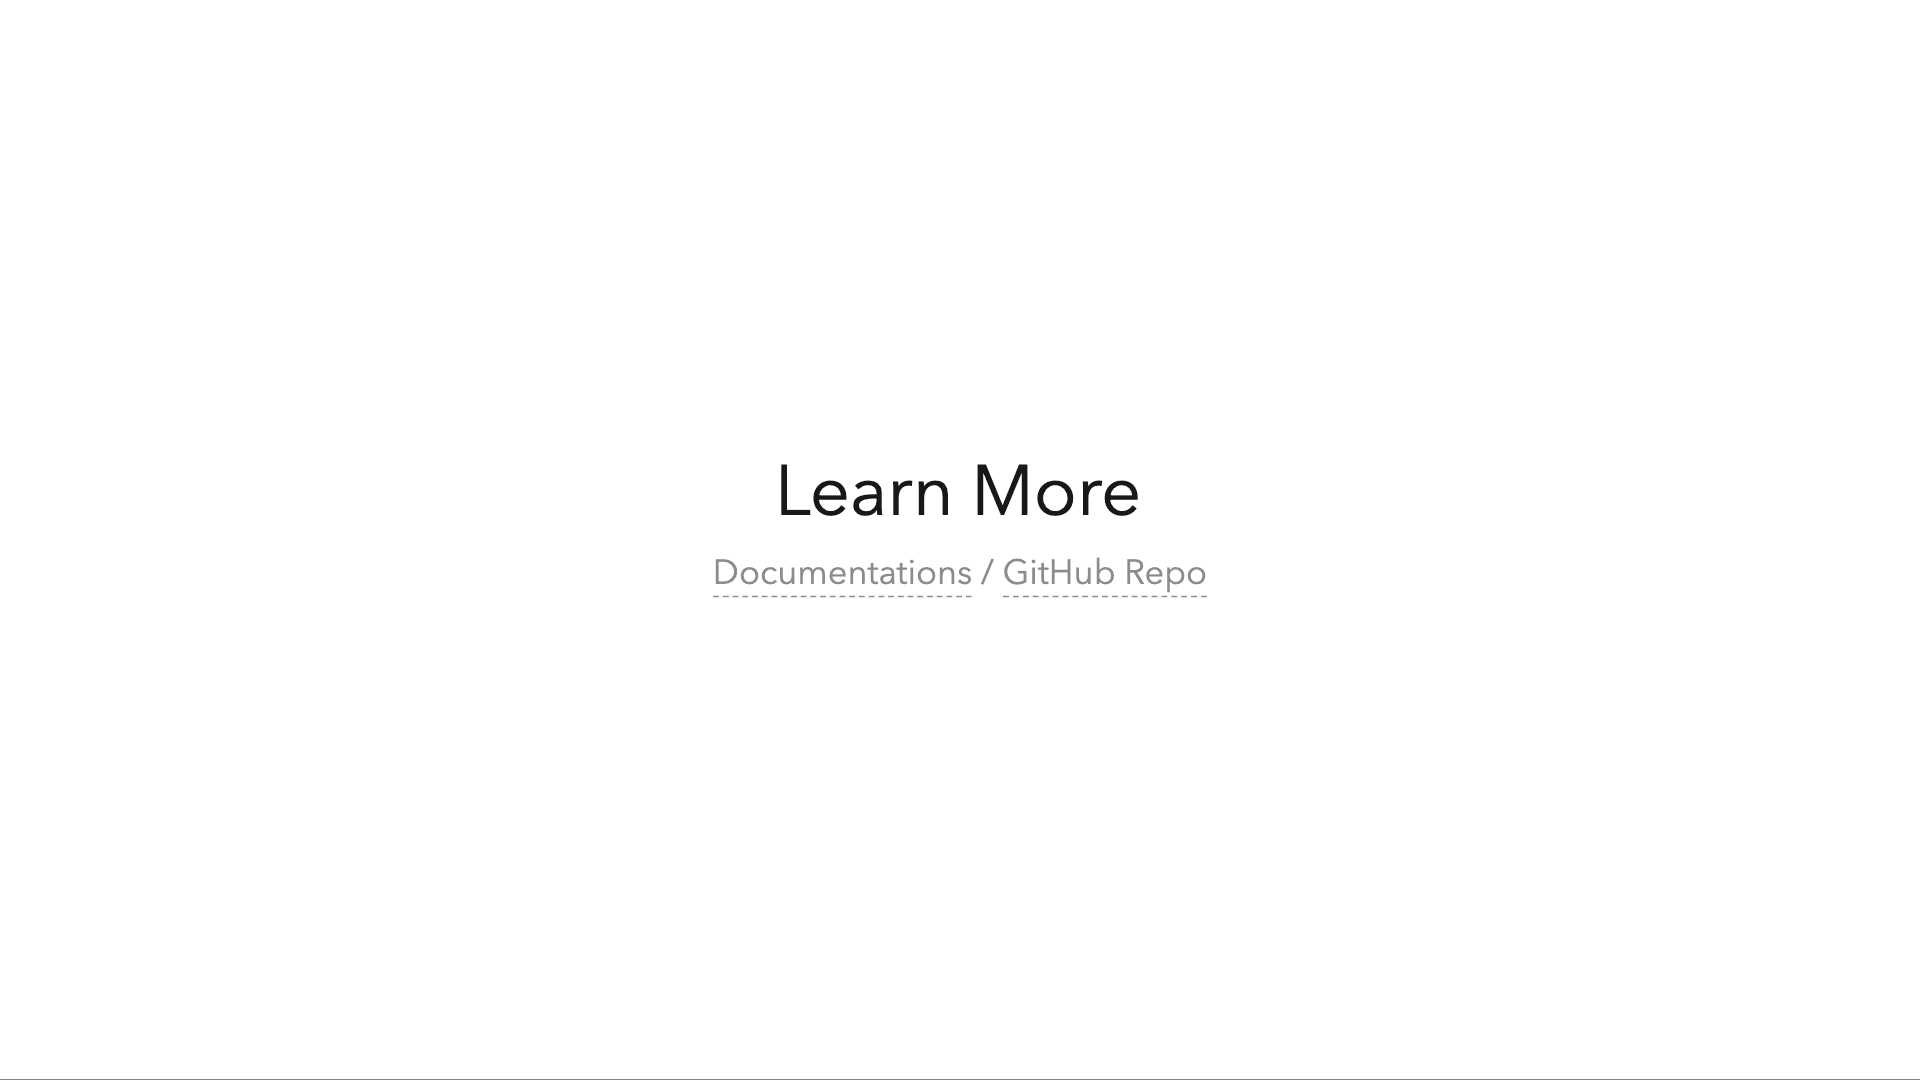
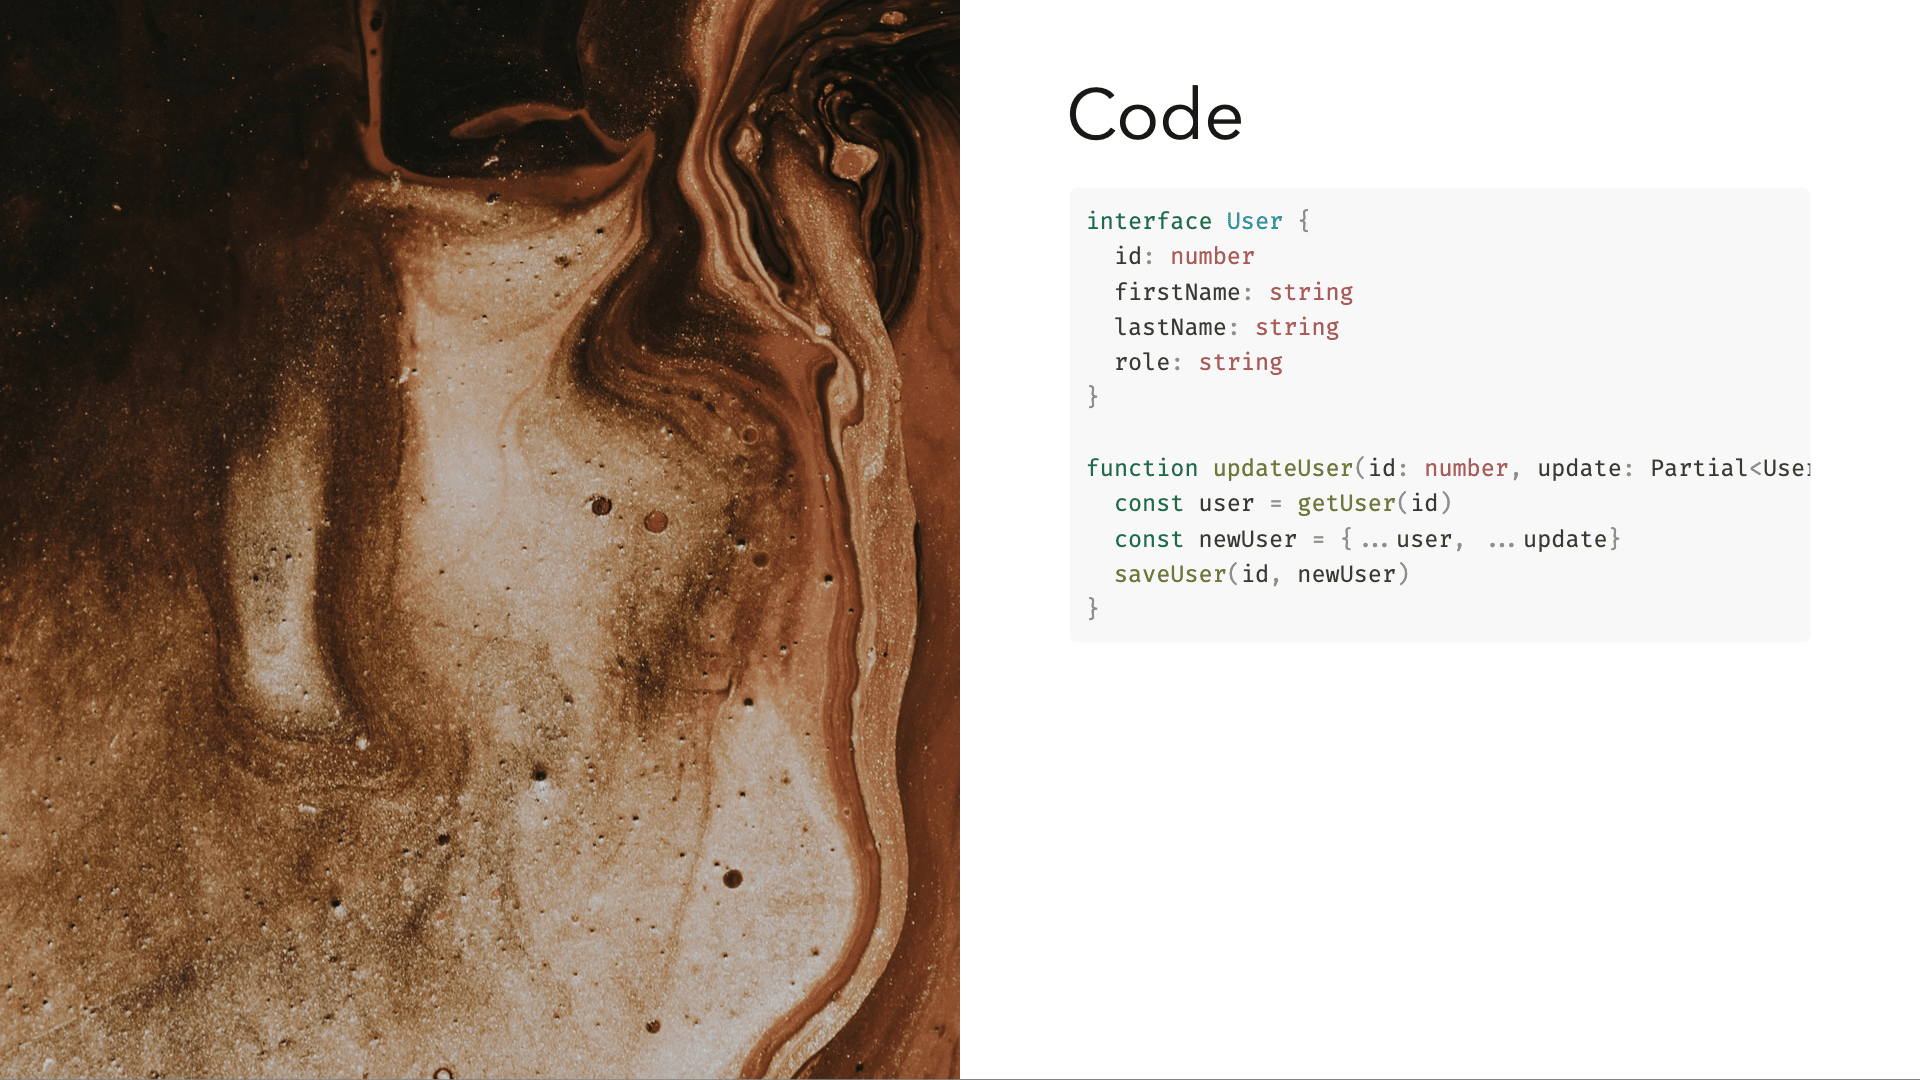
chore: screenshots

diff --git a/packages/theme-seriph/styles/layouts.css b/packages/theme-seriph/styles/layouts.css
@@ -17,3 +17,34 @@
     @apply opacity-40 -mt-4 text-2xl;
   }
 }
+
+
+.slidev-layout.fact {
+  @apply text-center grid h-full;
+  h1 {
+    @apply text-8xl font-700;
+  }
+  h1 + p {
+    @apply font-700 text-2xl;
+  }
+}
+.slidev-layout.statement {
+  @apply text-center grid h-full;
+
+  h1 {
+    @apply text-6xl font-700;
+  }
+}
+.slidev-layout.quote {
+  @apply grid h-full;
+
+  h1 + p {
+    @apply mt-2;
+  }
+}
+.slidev-layout.section {
+  h1 {
+    @apply text-6xl font-500 leading-20;
+  }
+}
+

diff --git a/packages/theme-default/example.md b/packages/theme-default/example.md
@@ -62,6 +62,28 @@ layout: quote
 Attribution
 
 ---
+layout: image-left
+image: https://source.unsplash.com/collection/94734566/1920x1080
+---
+
+# Code
+
+```ts {all|2|1-6|all}
+interface User {
+  id: number
+  firstName: string
+  lastName: string
+  role: string
+}
+
+function updateUser(id: number, update: Partial<User>) {
+  const user = getUser(id)
+  const newUser = {...user, ...update}  
+  saveUser(id, newUser)
+}
+```
+
+---
 layout: center
 class: "text-center"
 ---
